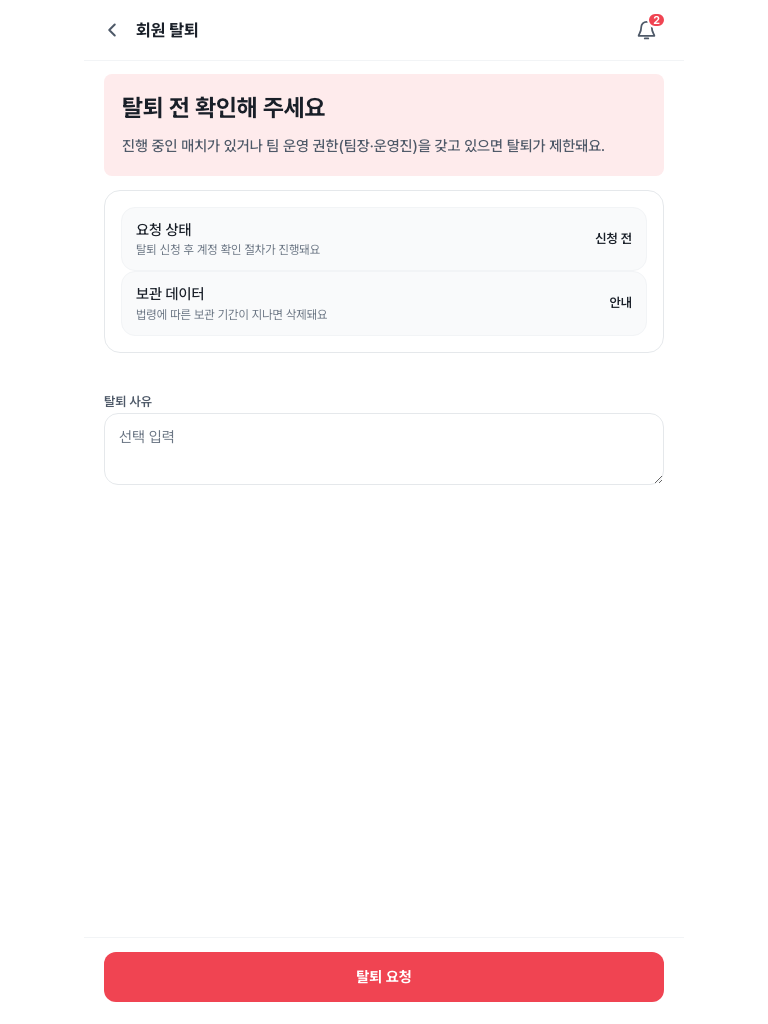
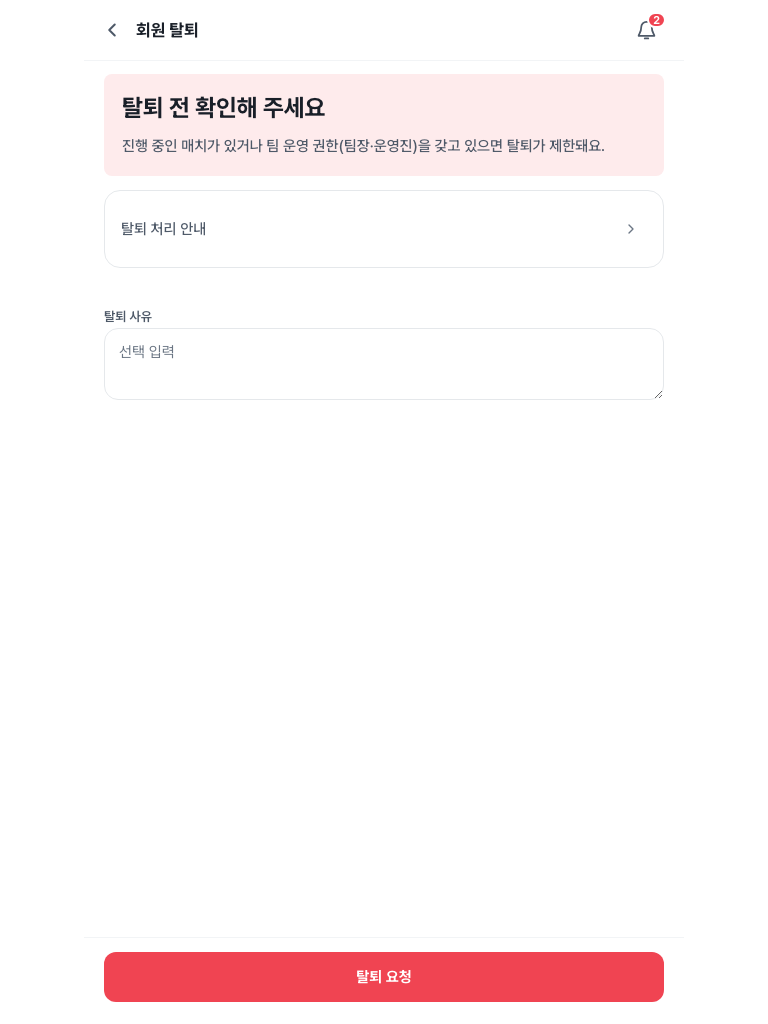
fix(v1/my): 탈퇴 처리 안내를 약관처럼 접힘 기본값으로 전환
- "요청 상태"/"보관 데이터" 두 ListItem을 상시 노출하는 대신, 약관 동의
  화면(terms-client.tsx)과 동일한 chevron 접기/펼치기 패턴 적용 — 기본은
  "탈퇴 처리 안내" 한 줄만 보이고 클릭 시 두 항목이 펼쳐짐
- 핵심 경고(진행 중인 매치·팀 운영 권한 제한)는 상단 danger panel에 이미
  있으므로, 부가 절차 설명은 접어서 시각적 무게를 줄임
- 확인 모달(useConfirm/ConfirmModal)은 라이브로 다시 확인 — a11y·포커스
  트랩·버튼 계층 모두 정상이라 별도 수정 없음

Claude-Session: https://claude.ai/code/session_01WoDVXPxUsspirhUEMkteFw

diff --git a/apps/v1_web/src/app/globals.css b/apps/v1_web/src/app/globals.css
@@ -4717,6 +4717,44 @@ button:disabled {
   padding: 18px;
 }
 
+.tm-withdrawal-info-toggle {
+  appearance: none;
+  border: 0;
+  background: transparent;
+  font: inherit;
+  color: inherit;
+  padding: 0;
+  width: 100%;
+  min-height: 44px;
+  display: flex;
+  align-items: center;
+  justify-content: space-between;
+  gap: 12px;
+}
+
+.tm-withdrawal-info-arrow {
+  width: 32px;
+  height: 32px;
+  flex-shrink: 0;
+  display: grid;
+  place-items: center;
+  border-radius: 999px;
+  color: var(--text-caption);
+  transition: transform 0.15s ease;
+}
+
+.tm-withdrawal-info-toggle[aria-expanded="true"] .tm-withdrawal-info-arrow {
+  transform: rotate(90deg);
+}
+
+.tm-withdrawal-info-detail {
+  margin-top: 12px;
+  padding-top: 12px;
+  border-top: 1px solid var(--grey100);
+  display: grid;
+  gap: 10px;
+}
+
 @media (min-width: 760px) {
   .v1-root {
     padding: 28px 0;

diff --git a/apps/v1_web/src/components/my/my-api-clients.tsx b/apps/v1_web/src/components/my/my-api-clients.tsx
@@ -4,7 +4,7 @@ import { ChangeEvent, FormEvent, useEffect, useMemo, useState } from 'react';
 import Link from 'next/link';
 import { useRouter, useSearchParams } from 'next/navigation';
 import { AppChrome } from '@/components/v1-ui/shell';
-import { ChevronLeftIcon } from '@/components/v1-ui/icons';
+import { ChevronLeftIcon, ChevronRightIcon } from '@/components/v1-ui/icons';
 import { Card, DatePickerTextInput, ListItem } from '@/components/v1-ui/primitives';
 import { useConfirm } from '@/components/v1-ui/confirm-modal';
 import { useV1PushRegistration } from '@/hooks/use-v1-push-registration';
@@ -1328,6 +1328,7 @@ export function WithdrawalPageClient() {
   const router = useRouter();
   const withdrawal = useV1WithdrawalRequest();
   const [reason, setReason] = useState('');
+  const [infoOpen, setInfoOpen] = useState(false);
   // #4: 비가역 작업이므로 confirm 모달로 이중 확인한다.
   const { confirm, ConfirmModal } = useConfirm();
 
@@ -1368,8 +1369,29 @@ export function WithdrawalPageClient() {
             <p className="tm-text-body" style={{ margin: '10px 0 0', lineHeight: 1.6 }}>진행 중인 매치가 있거나 팀 운영 권한(팀장·운영진)을 갖고 있으면 탈퇴가 제한돼요.</p>
           </section>
           <Card pad={16}>
-            <ListItem title="요청 상태" sub="탈퇴 신청 후 계정 확인 절차가 진행돼요" trailing="신청 전" />
-            <ListItem title="보관 데이터" sub="법령에 따른 보관 기간이 지나면 삭제돼요" trailing="안내" />
+            <button
+              type="button"
+              className="tm-withdrawal-info-toggle tm-pressable"
+              aria-expanded={infoOpen}
+              onClick={() => setInfoOpen((current) => !current)}
+            >
+              <span className="tm-text-body">탈퇴 처리 안내</span>
+              <span className="tm-withdrawal-info-arrow" aria-hidden="true">
+                <ChevronRightIcon size={16} strokeWidth={2} />
+              </span>
+            </button>
+            {infoOpen ? (
+              <div className="tm-withdrawal-info-detail">
+                <div>
+                  <div className="tm-text-label" style={{ color: 'var(--text-strong)' }}>요청 상태</div>
+                  <div className="tm-text-caption">탈퇴 신청 후 계정 확인 절차가 진행돼요</div>
+                </div>
+                <div>
+                  <div className="tm-text-label" style={{ color: 'var(--text-strong)' }}>보관 데이터</div>
+                  <div className="tm-text-caption">법령에 따른 보관 기간이 지나면 삭제돼요</div>
+                </div>
+              </div>
+            ) : null}
           </Card>
           <label className="tm-create-field">
             <span className="tm-text-label">탈퇴 사유</span>